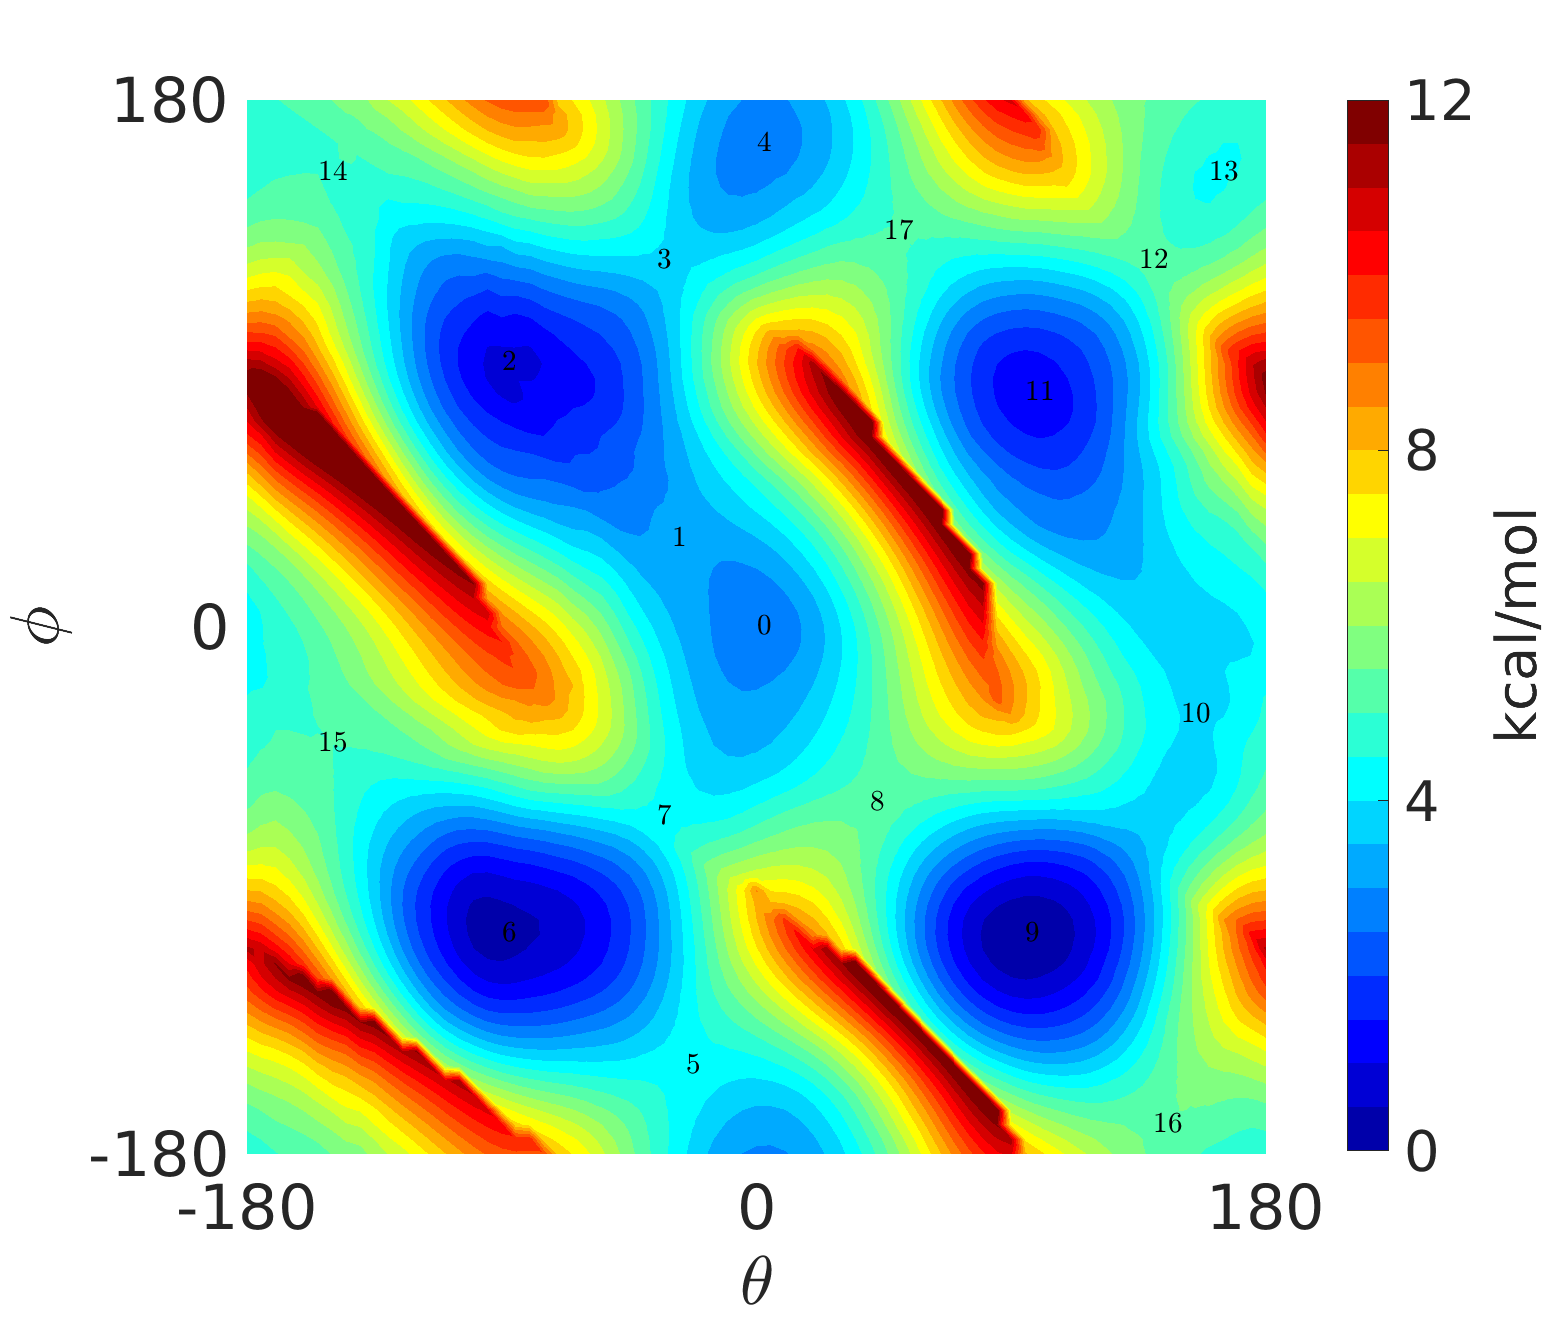
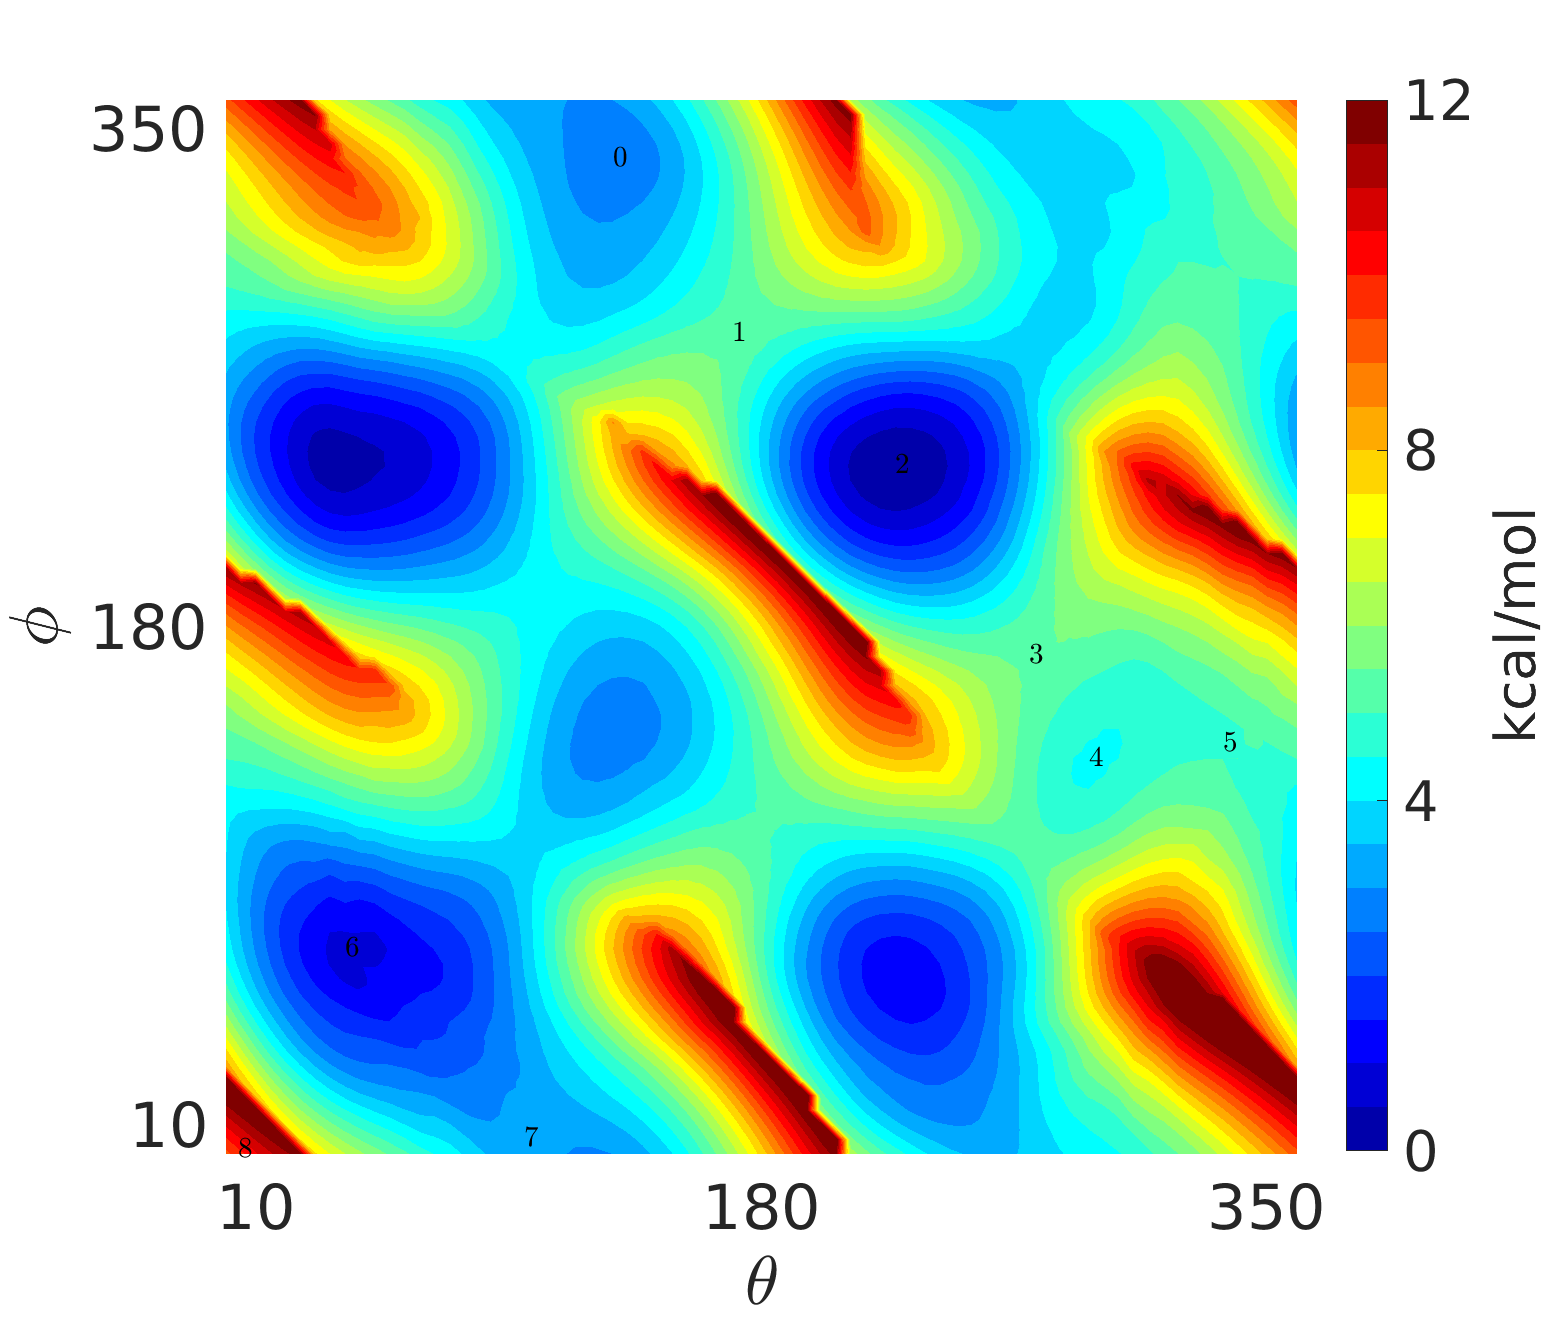
reindex

diff --git a/plot/plot_all.m b/plot/plot_all.m
@@ -36,8 +36,8 @@ plot3(0:360, ones(1,361)*270+labels(end,2), ones(1,361)'*15, '--w', 'LineWidth',
 plot3(ones(1,361)* 90+labels(end,1), 0:360, ones(1,361)'*15, '--w', 'LineWidth', 0.8, 'MarkerSize', 7);
 plot3(ones(1,361)*180+labels(end,1), 0:360, ones(1,361)'*15, '-w', 'LineWidth', 1.25, 'MarkerSize', 7);
 plot3(ones(1,361)*270+labels(end,1), 0:360, ones(1,361)'*15, '--w', 'LineWidth', 0.8, 'MarkerSize', 7);
-scatter3(labels(1,1),labels(1,2),20, 180, 'o', 'MarkerEdgeColor','k', 'MarkerFaceColor','y', 'LineWidth', 1.2);
-scatter3(labels(2,1),labels(2,2),20, 140, '^', 'MarkerEdgeColor','k', 'MarkerFaceColor','y', 'LineWidth', 1.2);
+% scatter3(labels(1,1),labels(1,2),20, 180, 'o', 'MarkerEdgeColor','k', 'MarkerFaceColor','y', 'LineWidth', 1.2);
+% scatter3(labels(2,1),labels(2,2),20, 140, '^', 'MarkerEdgeColor','k', 'MarkerFaceColor','y', 'LineWidth', 1.2);
 scatter3(labels(3,1),labels(3,2),20, 380, 'p', 'MarkerEdgeColor','k', 'MarkerFaceColor','y', 'LineWidth', 1.0);
 
 for i=1:5
@@ -83,8 +83,8 @@ plot3(0:360, ones(1,361)*270+labels(end,2), ones(1,361)'*15, '--w', 'LineWidth',
 plot3(ones(1,361)* 90+labels(end,1), 0:360, ones(1,361)'*15, '--w', 'LineWidth', 0.8, 'MarkerSize', 7);
 plot3(ones(1,361)*180+labels(end,1), 0:360, ones(1,361)'*15, '-w', 'LineWidth', 1.25, 'MarkerSize', 7);
 plot3(ones(1,361)*270+labels(end,1), 0:360, ones(1,361)'*15, '--w', 'LineWidth', 0.8, 'MarkerSize', 7);
-scatter3(labels(1,1),labels(1,2),20, 180, 'o', 'MarkerEdgeColor','k', 'MarkerFaceColor','y', 'LineWidth', 1.2);
-scatter3(labels(2,1),labels(2,2),20, 140, '^', 'MarkerEdgeColor','k', 'MarkerFaceColor','y', 'LineWidth', 1.2);
+% scatter3(labels(1,1),labels(1,2),20, 180, 'o', 'MarkerEdgeColor','k', 'MarkerFaceColor','y', 'LineWidth', 1.2);
+% scatter3(labels(2,1),labels(2,2),20, 140, '^', 'MarkerEdgeColor','k', 'MarkerFaceColor','y', 'LineWidth', 1.2);
 scatter3(labels(3,1),labels(3,2),20, 380, 'p', 'MarkerEdgeColor','k', 'MarkerFaceColor','y', 'LineWidth', 1.0);
 
 for i=1:5
@@ -140,8 +140,8 @@ plot3(0:360, ones(1,361)*270+labels(end,2), ones(1,361)'*15, '--w', 'LineWidth',
 plot3(ones(1,361)* 90+labels(end,1), 0:360, ones(1,361)'*15, '--w', 'LineWidth', 0.8, 'MarkerSize', 7);
 plot3(ones(1,361)*180+labels(end,1), 0:360, ones(1,361)'*15, '-w', 'LineWidth', 1.25, 'MarkerSize', 7);
 plot3(ones(1,361)*270+labels(end,1), 0:360, ones(1,361)'*15, '--w', 'LineWidth', 0.8, 'MarkerSize', 7);
-scatter3(labels(1,1),labels(1,2),20, 180, 'o', 'MarkerEdgeColor','k', 'MarkerFaceColor','y', 'LineWidth', 1.2);
-scatter3(labels(2,1),labels(2,2),20, 140, '^', 'MarkerEdgeColor','k', 'MarkerFaceColor','y', 'LineWidth', 1.2);
+% scatter3(labels(1,1),labels(1,2),20, 180, 'o', 'MarkerEdgeColor','k', 'MarkerFaceColor','y', 'LineWidth', 1.2);
+% scatter3(labels(2,1),labels(2,2),20, 140, '^', 'MarkerEdgeColor','k', 'MarkerFaceColor','y', 'LineWidth', 1.2);
 scatter3(labels(3,1),labels(3,2),20, 380, 'p', 'MarkerEdgeColor','k', 'MarkerFaceColor','y', 'LineWidth', 1.0);
 
 for i=1:5
@@ -196,8 +196,8 @@ plot3(0:360, ones(1,361)*270+labels(end,2), ones(1,361)'*15, '--w', 'LineWidth',
 plot3(ones(1,361)* 90+labels(end,1), 0:360, ones(1,361)'*15, '--w', 'LineWidth', 0.8, 'MarkerSize', 7);
 plot3(ones(1,361)*180+labels(end,1), 0:360, ones(1,361)'*15, '-w', 'LineWidth', 1.25, 'MarkerSize', 7);
 plot3(ones(1,361)*270+labels(end,1), 0:360, ones(1,361)'*15, '--w', 'LineWidth', 0.8, 'MarkerSize', 7);
-scatter3(labels(1,1),labels(1,2),20, 180, 'o', 'MarkerEdgeColor','k', 'MarkerFaceColor','y', 'LineWidth', 1.2);
-scatter3(labels(2,1),labels(2,2),20, 140, '^', 'MarkerEdgeColor','k', 'MarkerFaceColor','y', 'LineWidth', 1.2);
+% scatter3(labels(1,1),labels(1,2),20, 180, 'o', 'MarkerEdgeColor','k', 'MarkerFaceColor','y', 'LineWidth', 1.2);
+% scatter3(labels(2,1),labels(2,2),20, 140, '^', 'MarkerEdgeColor','k', 'MarkerFaceColor','y', 'LineWidth', 1.2);
 scatter3(labels(3,1),labels(3,2),20, 380, 'p', 'MarkerEdgeColor','k', 'MarkerFaceColor','y', 'LineWidth', 1.0);
 
 for i=1:5
@@ -254,8 +254,8 @@ plot3(ones(1,361)*180+labels(end,1), 0:360, ones(1,361)'*15, '-w', 'LineWidth', 
 plot3(ones(1,361)*270+labels(end,1), 0:360, ones(1,361)'*15, '--w', 'LineWidth', 0.8, 'MarkerSize', 7);
 
 scatter3(labels(1,1),labels(1,2),20, 180, 'o', 'MarkerEdgeColor','k', 'MarkerFaceColor','y', 'LineWidth', 1.2);
-scatter3(labels(2,1),labels(2,2),20, 140, '^', 'MarkerEdgeColor','k', 'MarkerFaceColor','y', 'LineWidth', 1.2);
-scatter3(labels(3,1),labels(3,2),20, 380, 'p', 'MarkerEdgeColor','k', 'MarkerFaceColor','y', 'LineWidth', 1.0);
+% scatter3(labels(2,1),labels(2,2),20, 140, '^', 'MarkerEdgeColor','k', 'MarkerFaceColor','y', 'LineWidth', 1.2);
+% scatter3(labels(3,1),labels(3,2),20, 380, 'p', 'MarkerEdgeColor','k', 'MarkerFaceColor','y', 'LineWidth', 1.0);
 
 for i=1:5
     scatter3(keyx(i)+labels(end,1), keyy(i)+labels(end,2), 20, 350, 'o', 'MarkerEdgeColor','k', 'MarkerFaceColor',[1.0 1.0 1.0], 'LineWidth', 1.5);
@@ -312,8 +312,8 @@ plot3(ones(1,361)* 90+labels(end,1), 0:360, ones(1,361)'*15, '--w', 'LineWidth',
 plot3(ones(1,361)*180+labels(end,1), 0:360, ones(1,361)'*15, '-w', 'LineWidth', 1.25, 'MarkerSize', 7);
 plot3(ones(1,361)*270+labels(end,1), 0:360, ones(1,361)'*15, '--w', 'LineWidth', 0.8, 'MarkerSize', 7);
 
-scatter3(labels(1,1),labels(1,2),20, 180, 'o', 'MarkerEdgeColor','k', 'MarkerFaceColor','y', 'LineWidth', 1.2);
-scatter3(labels(2,1),labels(2,2),20, 140, '^', 'MarkerEdgeColor','k', 'MarkerFaceColor','y', 'LineWidth', 1.2);
+% scatter3(labels(1,1),labels(1,2),20, 180, 'o', 'MarkerEdgeColor','k', 'MarkerFaceColor','y', 'LineWidth', 1.2);
+% scatter3(labels(2,1),labels(2,2),20, 140, '^', 'MarkerEdgeColor','k', 'MarkerFaceColor','y', 'LineWidth', 1.2);
 scatter3(labels(3,1),labels(3,2),20, 380, 'p', 'MarkerEdgeColor','k', 'MarkerFaceColor','y', 'LineWidth', 1.0);
 
 for i=1:5
@@ -358,7 +358,7 @@ axis off;
 %map = jet(48); map = [map( 1,:); map( 4,:); map( 7,:); map(10,:); map(13,:); map(16,:); map(18,:); map(20,:); map(22,:); map(24,:); map(26,:); map(28,:); ...
 %                      map(43,:); map(44,:); map(45,:); map(46,:); map(47,:); map(48,:); map(48,:); map(48,:); map(48,:); map(48,:); map(48,:); map(48,:)];
 map = jet(24);
-map(15:24,:) = [ones(10,1), linspace(1.0,0.0,10)', zeros(10,1)];
+% map(15:24,:) = [ones(10,1), linspace(1.0,0.0,10)', zeros(10,1)];
 colormap(map);
 caxis([0 12]);
 h = colorbar('Position',[0.92, 0.10, 0.015, 0.87], 'location', 'Eastoutside');

diff --git a/plot/read_all.m b/plot/read_all.m
@@ -1,9 +1,36 @@
-systems = ["1001", "1101", "1111", "10n01", "11n01", "11n11"];
+systems = ["1001"; "1101"; "1111"; "10n01"; "11n01"; "11n11"];
 
-for i=1:6
-    system = systems(i);
+for idx=1:6
+    system = systems(idx);
     plotPES;
-    VE(:,:,i) = Ve;
-    VF(:,:,i) = Pf;
-    LB(1:size(labels,1),:,i) = labels;
+    close all;
+    VE(:,:,idx) = Ve;
+    LB(1:size(labels,1),:,idx) = labels;
+    
+    [sorted_Vf, sorted_id] = sort(Vf(:));
+
+    if (idx == 5)
+        [min_v, min_id] = min(Vf(:));
+        [min_i, min_j]  = ind2sub(size(Vf), min_id);
+    else
+        for id=1:length(sorted_Vf)
+            [ii,jj] = ind2sub(size(Vf), sorted_id(id));
+        
+            if (Xf(ii,jj) > 180 && Xf(ii,jj) < 270 && Yf(ii,jj) > 180 && Yf(ii,jj) < 270)
+                [min_i, min_j] = deal(ii,jj);            
+                break;
+            end
+        end
+    end
+    
+    Bf = shortest_path_max(Vf, min_i, min_j);
+    Be = zeros(n+1, n+1);
+    Be(1:n, 1:n) = Bf;
+    Be(n+1, :) = Be(1,:);
+    Be(:,n+1)  = Be(:,1);
+    
+    [YeF,XeF] = meshgrid(0:1:360,0:1:360);
+    BeF = interp2(Ye,Xe,Be,YeF,XeF, 'spline');
+    
+    VE(:,:,idx) = Be;
 end

diff --git a/plot/plotPES.m b/plot/plotPES.m
@@ -2,8 +2,8 @@ close all;
 
 n = 72;
 
-system = '11n11';
-geoms  = 'critical';
+system = '10n01';
+geoms  = 'connect';
 showpath = true;
 
 labels = [];
@@ -76,32 +76,30 @@ end
 if (strcmp(geoms, 'connect'))
     labels(end+1,:) = -origin;
 end
-% labels = pdd(labels + origin, 0, 360);
     
 X = reshape(A(:,1), [n,n])';
 Y = reshape(A(:,2), [n,n])';
-P = reshape(A(:,3), [n,n])';
+V = reshape(A(:,3), [n,n])';
 
-P = (P-min(min(P)))*627.509;
+V = (V-min(min(V)))*627.509;
 
-[Xf,Yf,Pf] = deal(X,Y,P);
+[Xf,Yf,Vf] = deal(X,Y,V);
 
-%{
-Pf = P;
-
+%%{
+labels = pdd(labels + origin, 0, 360);
 [Yf,Xf] = meshgrid(0:5:355, 0:5:355);
-Pf = pshiftm(Pf, floor(-origin(1)/5)+180, floor(-origin(2)/5)+180);
+Vf = pshiftm(Vf, floor(-origin(1)/5)+180, floor(-origin(2)/5)+180);
 
 labels = labels + (-origin - floor(-origin/5)*5);
 %}
 
-[Xe,Ye,Ve] = meshBoard(Xf,Yf,Pf);
+[Xe,Ye,Ve] = meshBoard(Xf,Yf,Vf);
 
 
 % [Ye,Xe] = deal(Xe,Ye); % swap
 
 figure;
-% contourf(X,Y,P, [0 0.2 0.5 1.0 2.0 3.0 5.0 7.0 9.0], 'ShowText','on'); colormap jet(10);
+% contourf(X,Y,V, [0 0.2 0.5 1.0 2.0 3.0 5.0 7.0 9.0], 'ShowText','on'); colormap jet(10);
 surf(Xe,Ye,Ve);
 view( 0,90);
 set_range

diff --git a/mode/floyd_warshall.m b/mode/floyd_warshall.m
@@ -1,4 +1,4 @@
-function B = floyd_warshall(P)
+function B = floyd_warshall_max(P)
     n = size(P,1);
     
     B = ones(n^2, n^2) * 100;
@@ -19,11 +19,6 @@ function B = floyd_warshall(P)
     end
 
     for k=1:n^2        
-        BN = min(B, max(B(:,k)*ones(1,n^2), ones(n^2,1)*B(k,:)));
-        if (isequal(B, BN))
-            break;
-        else
-            B = BN;
-        end
+        B = min(B, max(B(:,k)*ones(1,n^2), ones(n^2,1)*B(k,:)));
     end
 end

diff --git a/plot/polyhist.m b/plot/polyhist.m
@@ -1,4 +1,4 @@
-ebins = 0.0:2.0:14.0;
+ebins = 0.0:0.1:14.0;
 ebinf = 0.0:0.1:14.0;
 
 ccumfs = zeros(6,length(ebinf));
@@ -6,7 +6,7 @@ ccumfs = zeros(6,length(ebinf));
 for i=1:6
    e = VF(:,:,i); e = e(:);
    h = histogram(e, ebins); 
-   ccumfs(i,:) = spline(ebins, cumsum([0 h.Values])/length(e), ebinf);
+   ccumfs(i,:) = interp1(ebins, cumsum([0 h.Values])/length(e), ebinf, 'linear');
    ccumfs(i,ccumfs(i,:)<0) = 0;
    ccumfs(i,ccumfs(i,:)>1) = 1;
 end

diff --git a/plot/set_range.m b/plot/set_range.m
@@ -6,7 +6,7 @@ set(gca,'XTick',[-170:170:170]);
 set(gca,'YTick',[-170:170:170]);
 %}
 
-%%{
+%{
 set(gca,'xlim',[-180 180]);
 set(gca,'ylim',[-180 180]);
 
@@ -14,7 +14,7 @@ set(gca,'XTick',[-180:180:180]);
 set(gca,'YTick',[-180:180:180]);
 %}
 
-%{
+%%{
 set(gca,'xlim',[0 360]);
 set(gca,'ylim',[0 360]);
 
